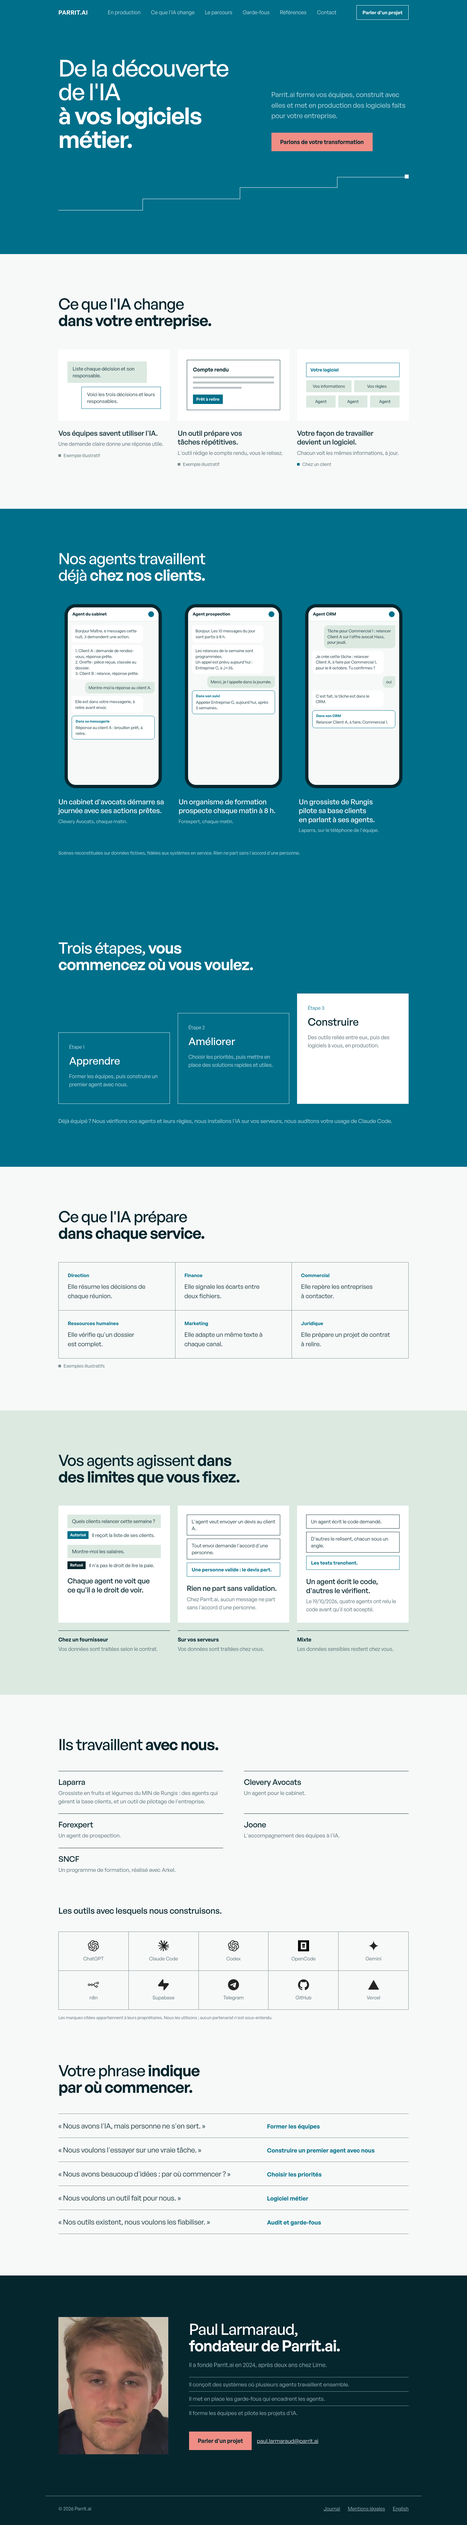
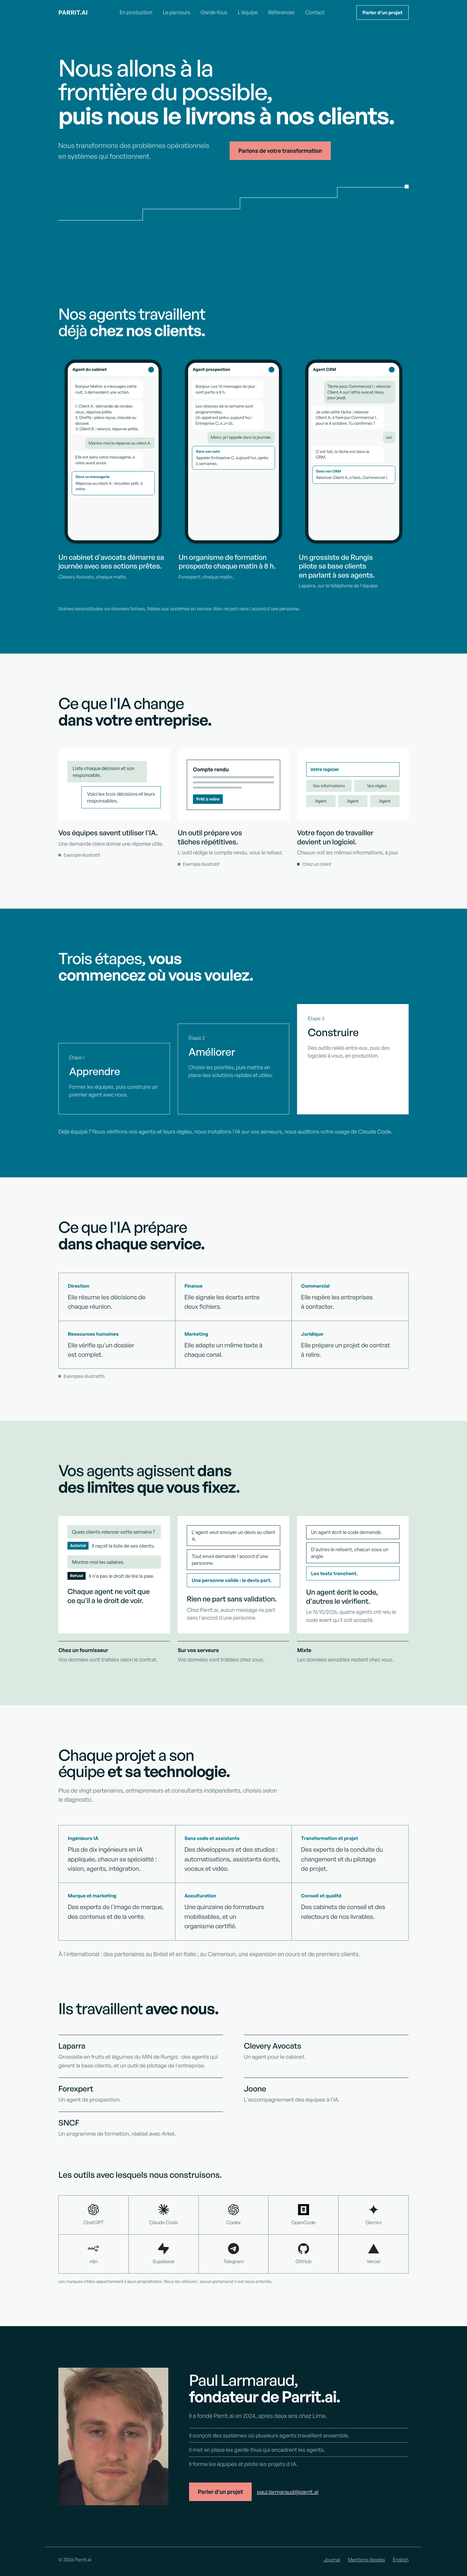
docs(site-v1): page unique, version finale de la maquette (hero du deck Act-On, partenaires, ordre, sans « Votre phrase »)
Claude-Session: https://claude.ai/code/session_01JVBbPy26M48TGq6qmjNZDn

diff --git a/docs/site-v1/page-unique/MAQUETTE-VALIDEE.html b/docs/site-v1/page-unique/MAQUETTE-VALIDEE.html
@@ -40,7 +40,9 @@ nav{display:flex;gap:32px;font-size:16px}
 nav a{color:var(--on-canard);text-decoration:none}
 /* hero */
 .hero{background:var(--canard);color:var(--white);padding:96px 0 120px}
-.hero .grid{display:grid;grid-template-columns:7fr 5fr;gap:64px;align-items:end}
+.hero .grid{display:grid;grid-template-columns:1fr;gap:40px}
+.hero h1{max-width:1060px}
+.hero .sub{display:flex;gap:48px;align-items:center;flex-wrap:wrap}
 .hero p{color:var(--on-canard);font-size:21px;max-width:480px}
 .hero .actions{margin-top:36px;display:flex;gap:16px}
 .hero h1 b{display:block}
@@ -151,31 +153,19 @@ footer a{color:var(--on-ink);margin-left:24px}
 </head>
 <body>
 <header><div class="wrap"><span class="mark">PARRIT.AI</span>
-<nav><a href="#en-production">En production</a><a href="#ce-qui-change">Ce que l'IA change</a><a href="#parcours">Le parcours</a><a href="#confiance">Garde-fous</a><a href="#references">Références</a><a href="#contact">Contact</a></nav>
+<nav><a href="#en-production">En production</a><a href="#parcours">Le parcours</a><a href="#confiance">Garde-fous</a><a href="#partenaires">L'équipe</a><a href="#references">Références</a><a href="#contact">Contact</a></nav>
 <a class="btn ghost" href="#contact" style="padding:11px 18px;font-size:15px">Parler d'un projet</a></div></header>
 
 <div class="hero"><div class="wrap">
   <div class="grid">
-    <h1>De la découverte de l'IA <b>à vos logiciels métier.</b></h1>
-    <div>
-      <p>Parrit.ai forme vos équipes, construit avec elles et met en production des logiciels faits pour votre entreprise.</p>
-      <div class="actions"><a class="btn exec" href="#contact">Parlons de votre transformation</a></div>
+    <h1>Nous allons à la frontière du possible, <b>puis nous le livrons à nos clients.</b></h1>
+    <div class="sub">
+      <p>Nous transformons des problèmes opérationnels en systèmes qui fonctionnent.</p>
+      <div class="actions" style="margin-top:0"><a class="btn exec" href="#contact">Parlons de votre transformation</a></div>
     </div>
   </div>
   <svg class="stairs" viewBox="0 0 1080 120" preserveAspectRatio="none" aria-hidden="true"><path d="M0 110 H260 V75 H560 V40 H860 V8 H1080" fill="none" stroke="currentColor" stroke-width="2" opacity=".55"/><rect x="1068" y="0" width="12" height="12" fill="currentColor"/></svg>
 </div></div>
-
-<section id="ce-qui-change"><div class="wrap">
-  <h2>Ce que l'IA change <b>dans votre entreprise.</b></h2>
-  <div class="three">
-    <div class="item"><div class="panel"><div class="bubble">Liste chaque décision et son responsable.</div><div class="answer">Voici les trois décisions et leurs responsables.</div></div>
-      <h3>Vos équipes savent utiliser l'IA.</h3><p class="muted">Une demande claire donne une réponse utile.</p><div class="status"><i></i>Exemple illustratif</div></div>
-    <div class="item"><div class="panel"><div class="doc"><b>Compte rendu</b><div class="l"></div><div class="l"></div><div class="l" style="width:60%"></div><span class="ok">Prêt à relire</span></div></div>
-      <h3>Un outil prépare vos tâches répétitives.</h3><p class="muted">L'outil rédige le compte rendu, vous le relisez.</p><div class="status"><i></i>Exemple illustratif</div></div>
-    <div class="item"><div class="panel"><div class="soft"><div class="top">Votre logiciel</div><div class="row"><span>Vos informations</span><span>Vos règles</span></div><div class="row"><span>Agent</span><span>Agent</span><span>Agent</span></div></div></div>
-      <h3>Votre façon de travailler devient un logiciel.</h3><p class="muted">Chacun voit les mêmes informations, à jour.</p><div class="status client"><i></i>Chez un client</div></div>
-  </div>
-</div></section>
 
 <section class="live" id="en-production"><div class="wrap">
   <h2>Nos agents travaillent déjà <b>chez nos clients.</b></h2>
@@ -215,6 +205,20 @@ Un appel est prévu aujourd'hui : Entreprise C, à J+35.</div>
   </div>
   <p class="note">Scènes reconstituées sur données fictives, fidèles aux systèmes en service. Rien ne part sans l'accord d'une personne.</p>
 </div></section>
+
+<section id="ce-qui-change"><div class="wrap">
+  <h2>Ce que l'IA change <b>dans votre entreprise.</b></h2>
+  <div class="three">
+    <div class="item"><div class="panel"><div class="bubble">Liste chaque décision et son responsable.</div><div class="answer">Voici les trois décisions et leurs responsables.</div></div>
+      <h3>Vos équipes savent utiliser l'IA.</h3><p class="muted">Une demande claire donne une réponse utile.</p><div class="status"><i></i>Exemple illustratif</div></div>
+    <div class="item"><div class="panel"><div class="doc"><b>Compte rendu</b><div class="l"></div><div class="l"></div><div class="l" style="width:60%"></div><span class="ok">Prêt à relire</span></div></div>
+      <h3>Un outil prépare vos tâches répétitives.</h3><p class="muted">L'outil rédige le compte rendu, vous le relisez.</p><div class="status"><i></i>Exemple illustratif</div></div>
+    <div class="item"><div class="panel"><div class="soft"><div class="top">Votre logiciel</div><div class="row"><span>Vos informations</span><span>Vos règles</span></div><div class="row"><span>Agent</span><span>Agent</span><span>Agent</span></div></div></div>
+      <h3>Votre façon de travailler devient un logiciel.</h3><p class="muted">Chacun voit les mêmes informations, à jour.</p><div class="status client"><i></i>Chez un client</div></div>
+  </div>
+</div></section>
+
+
 
 <section class="parcours" id="parcours"><div class="wrap">
   <h2>Trois étapes, <b>vous commencez où vous voulez.</b></h2>
@@ -256,7 +260,21 @@ Un appel est prévu aujourd'hui : Entreprise C, à J+35.</div>
   </div>
 </div></section>
 
-<section id="references"><div class="wrap">
+<section id="partenaires"><div class="wrap">
+  <h2>Chaque projet a son équipe <b>et sa technologie.</b></h2>
+  <p class="muted" style="margin-top:20px;max-width:720px">Plus de vingt partenaires, entrepreneurs et consultants indépendants, choisis selon le diagnostic.</p>
+  <div class="services">
+    <div><span class="s">Ingénieurs IA</span><p>Plus de dix ingénieurs en IA appliquée, chacun sa spécialité : vision, agents, intégration.</p></div>
+    <div><span class="s">Sans code et assistants</span><p>Des développeurs et des studios : automatisations, assistants écrits, vocaux et vidéo.</p></div>
+    <div><span class="s">Transformation et projet</span><p>Des experts de la conduite du changement et du pilotage de projet.</p></div>
+    <div><span class="s">Marque et marketing</span><p>Des experts de l'image de marque, des contenus et de la vente.</p></div>
+    <div><span class="s">Acculturation</span><p>Une quinzaine de formateurs mobilisables, et un organisme certifié.</p></div>
+    <div><span class="s">Conseil et qualité</span><p>Des cabinets de conseil et des relecteurs de nos livrables.</p></div>
+  </div>
+  <p class="muted" style="margin-top:28px">À l'international : des partenaires au Brésil et en Italie ; au Cameroun, une expansion en cours et de premiers clients.</p>
+</div></section>
+
+<section id="references" style="padding-top:0"><div class="wrap">
   <h2>Ils travaillent <b>avec nous.</b></h2>
   <div class="refs">
     <div><h3>Laparra</h3><p class="muted">Grossiste en fruits et légumes du MIN de Rungis : des agents qui gèrent la base clients, et un outil de pilotage de l'entreprise.</p></div>
@@ -281,16 +299,7 @@ Un appel est prévu aujourd'hui : Entreprise C, à J+35.</div>
   <p class="legal-note">Les marques citées appartiennent à leurs propriétaires. Nous les utilisons ; aucun partenariat n'est sous-entendu.</p>
 </div></section>
 
-<section style="padding-top:0"><div class="wrap">
-  <h2>Votre phrase <b>indique par où commencer.</b></h2>
-  <div class="phrases">
-    <div><span class="ph">« Nous avons l'IA, mais personne ne s'en sert. »</span><span class="et">Former les équipes</span></div>
-    <div><span class="ph">« Nous voulons l'essayer sur une vraie tâche. »</span><span class="et">Construire un premier agent avec nous</span></div>
-    <div><span class="ph">« Nous avons beaucoup d'idées : par où commencer ? »</span><span class="et">Choisir les priorités</span></div>
-    <div><span class="ph">« Nous voulons un outil fait pour nous. »</span><span class="et">Logiciel métier</span></div>
-    <div><span class="ph">« Nos outils existent, nous voulons les fiabiliser. »</span><span class="et">Audit et garde-fous</span></div>
-  </div>
-</div></section>
+
 
 <section class="founder" id="contact"><div class="wrap"><div class="grid">
   <img src="file:///Users/paullarmaraud/parrit-canon/brand/assets/photos/paul-centre.png" alt="Paul Larmaraud">

diff --git a/docs/site-v1/page-unique/HANDOFF-PAGE-UNIQUE.md b/docs/site-v1/page-unique/HANDOFF-PAGE-UNIQUE.md
@@ -80,6 +80,23 @@ Les pages et composants qui ne servent plus sont supprimés (pas laissés morts)
 - Nouveaux tests : (a) l'accueil FR/EN rend les 8 sections dans l'ordre, avec leurs ancres ; (b) chaque ancienne URL répond 308 vers sa section, en un seul saut, requête conservée ; (c) aucune URL du sitemap ne répond autre chose que 200 ; (d) à 1440 et 390 px : aucun débordement, aucun texte en police machine, boutons conformes, un seul éclat rose par écran ; (e) la photo est servie et son empreinte correspond au registre ; (f) la réservation est atteignable depuis le bouton de la section 8.
 - Comparaison visuelle : captures 1440 et 390 px de `/fr` jointes au rapport, à côté de `maquette-1440.png` et `maquette-390.png` ; écrire les écarts restants.
 
+## 0. VERSION FINALE DE LA MAQUETTE (prime sur les §1, §2 et §6 en cas d'écart)
+
+Derniers retours de Paul (27/10, nuit) : la section « Votre phrase indique par où commencer » venait de slides destinées aux consultants d'Act-On, « des choses qu'on ne veut pas montrer sur le site » : **supprimée** (avec « Audit et garde-fous »). Il faut « une partie pour les partenaires, avec les partenaires de différents domaines » et « que les choses soient dans l'ordre ». Le haut de page reprend « la première slide du deck partenaire Act-On, la plus importante ».
+
+**Ordre des sections (maquette `MAQUETTE-VALIDEE.html`, rendus `maquette-1440.png` / `maquette-390.png`)** et ancres FR / EN :
+1. Haut de page — H1 FR « Nous allons à la frontière du possible, **puis nous le livrons à nos clients.** » ; phrase « Nous transformons des problèmes opérationnels en systèmes qui fonctionnent. » ; bouton « Parlons de votre transformation » ; escalier. H1 sur toute la largeur, phrase et bouton sur la rangée en dessous. EN : « We go to the frontier of what is possible, **then we deliver it to our clients.** » ; « We turn operational problems into systems that work. » ; « Let's talk about your transformation ».
+2. `#en-production` / `#in-production` — « Nos agents travaillent déjà chez nos clients » (§6.1).
+3. `#ce-qui-change` / `#what-changes` — « Ce que l'IA change dans votre entreprise ».
+4. `#parcours` / `#path` — « Trois étapes, vous commencez où vous voulez ».
+5. `#services` — « Ce que l'IA prépare dans chaque service ».
+6. `#confiance` / `#safeguards` — garde-fous et hébergement.
+7. `#partenaires` / `#team` — **nouvelle** : FR titre « Chaque projet a son équipe **et sa technologie.** » ; phrase « Plus de vingt partenaires, entrepreneurs et consultants indépendants, choisis selon le diagnostic. » ; six cases (même composant que les services) : « Ingénieurs IA » — « Plus de dix ingénieurs en IA appliquée, chacun sa spécialité : vision, agents, intégration. » ; « Sans code et assistants » — « Des développeurs et des studios : automatisations, assistants écrits, vocaux et vidéo. » ; « Transformation et projet » — « Des experts de la conduite du changement et du pilotage de projet. » ; « Marque et marketing » — « Des experts de l'image de marque, des contenus et de la vente. » ; « Acculturation » — « Une quinzaine de formateurs mobilisables, et un organisme certifié. » ; « Conseil et qualité » — « Des cabinets de conseil et des relecteurs de nos livrables. » ; ligne « À l'international : des partenaires au Brésil et en Italie ; au Cameroun, une expansion en cours et de premiers clients. » (source : deck Act-On du 22/10, slide « Nos partenaires »). EN : « Every project gets its own team **and its own technology.** » ; « More than twenty partners, independent entrepreneurs and consultants, chosen after the diagnosis. » ; « AI engineers » — « More than ten applied-AI engineers, each with a specialty: vision, agents, integration. » ; « No-code and assistants » — « Developers and studios: automations, written, voice and video assistants. » ; « Transformation and projects » — « Experts in change management and project delivery. » ; « Brand and marketing » — « Experts in branding, content and sales. » ; « AI adoption » — « Around fifteen trainers available, and a certified training organization. » ; « Advisory and quality » — « Consulting firms and reviewers of our deliverables. » ; « Abroad: partners in Brazil and Italy; in Cameroon, an expansion under way and first clients. » L'entrée « MIT » éteinte (§6.3) vit dans cette section, pas dans les références.
+8. `#references` — références, puis bande des outils (§6.2).
+9. `#contact` — fondateur, réservation intégrée.
+
+Navigation FR : « En production », « Le parcours », « Garde-fous », « L'équipe », « Références », « Contact » ; EN : « In production », « The path », « Safeguards », « The team », « References », « Contact ». La section « Votre phrase » et ses textes (§2, ligne « §7 ») ne sont **pas** implémentés.
+
 ## 6. Ajouts de Paul après la première maquette (27/10, nuit) — inclus dans la maquette validée
 
 Paul : « mixer ça avec la présentation Act-On et les logos de la tech qu'on emploie » ; « une petite case CRM […] des téléphones. On voyait le cabinet d'avocats qui pouvait avoir du résultat, on voyait Forexpert […] idéalement des petites vidéos, avec les conversations en direct sur le téléphone » ; « il ne faudra pas perdre le journal […] l'optimisation GEO […] ranker sur nos sujets de niche, et localement sur Lille et les Hauts-de-France » ; « les logos des entreprises avec lesquelles on travaille […] MIT […] On peut pas les afficher encore, mais on pourrait les afficher. »
